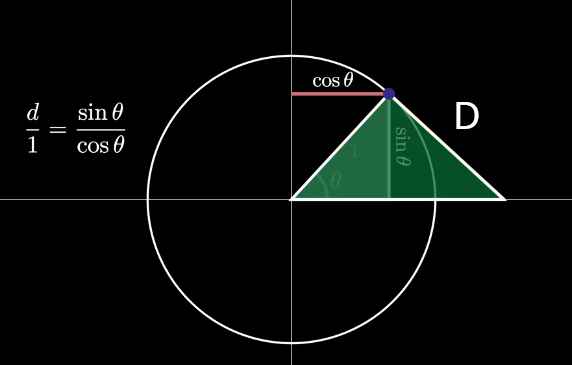
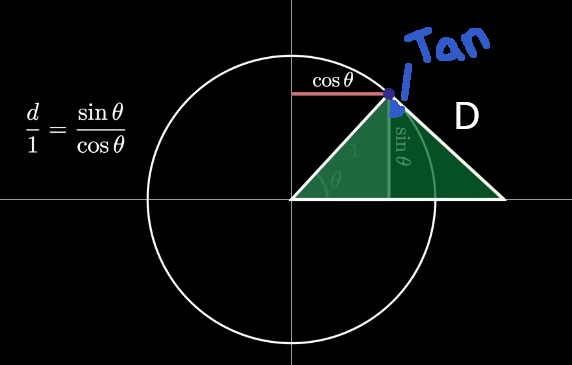
trig

Changed region(s): [[0.6836, 0.0603, 0.8619, 0.3315]]

diff --git a/Triginometry/Basics.html b/Triginometry/Basics.html
@@ -944,6 +944,10 @@ tangent also represents that slope of the radius</p>
 <img src="trig-visualized-tangent.png" alt="tangent">
 </div>
 </div>
+<div class="paragraph">
+<p>this works because we get the tangent with TOA or
+\$\frac{opposite}{adjacent}\$</p>
+</div>
 <div class="listingblock">
 <div class="content">
 <pre class="pygments highlight"><code data-lang="lua"><span></span><span class="tok-kd">local</span><span class="tok-w"> </span><span class="tok-nv">degrees</span><span class="tok-w"> </span><span class="tok-o">=</span><span class="tok-w"> </span><span class="tok-mi">45</span>
@@ -956,7 +960,7 @@ tangent also represents that slope of the radius</p>
 <span class="tok-w">         </span><span class="tok-nv">v</span><span class="tok-w"> </span><span class="tok-o">..</span>
 <span class="tok-w">         </span><span class="tok-s2">&quot;, &quot;</span><span class="tok-w"> </span><span class="tok-o">..</span>
 <span class="tok-w">        </span><span class="tok-s2">&quot;tangent: &quot;</span><span class="tok-w"> </span><span class="tok-o">..</span>
-<span class="tok-w">        </span><span class="tok-p">(</span><span class="tok-nb">math.sin</span><span class="tok-p">(</span><span class="tok-nv">radians</span><span class="tok-p">)</span><span class="tok-w"> </span><span class="tok-o">*</span><span class="tok-w"> </span><span class="tok-nv">v</span><span class="tok-p">)</span><span class="tok-o">/</span><span class="tok-p">(</span><span class="tok-nb">math.cos</span><span class="tok-p">(</span><span class="tok-nv">radians</span><span class="tok-p">)</span><span class="tok-w"> </span><span class="tok-o">*</span><span class="tok-w"> </span><span class="tok-nv">v</span><span class="tok-p">)</span>
+<span class="tok-w">        </span><span class="tok-nb">math.tan</span><span class="tok-p">(</span><span class="tok-nv">radians</span><span class="tok-p">)</span>
 <span class="tok-w">    </span><span class="tok-p">)</span>
 <span class="tok-kr">end</span></code></pre>
 </div>
@@ -973,7 +977,7 @@ radius: 5, tangent: 1</p>
 </details>
 <div class="paragraph">
 <p>notice how the tangent is always one when you&#8217;re at a 45 degree angle. No matter
-what the radius</p>
+what the radius.</p>
 </div>
 </div>
 </div>
@@ -995,7 +999,7 @@ what the radius</p>
 </div>
 <div id="footer">
 <div id="footer-text">
-Last updated 2025-12-17 14:50:27 -0500
+Last updated 2025-12-17 14:58:36 -0500
 </div>
 </div>
 <script type="text/x-mathjax-config">

diff --git a/Algrebra/index.html b/Algrebra/index.html
@@ -830,7 +830,7 @@ details[open] > summary::before {
 </div>
 <div id="footer">
 <div id="footer-text">
-Last updated 2025-12-17 14:50:29 -0500
+Last updated 2025-12-17 14:58:37 -0500
 </div>
 </div>
 <script type="text/x-mathjax-config">

diff --git a/Calculus/index.html b/Calculus/index.html
@@ -812,7 +812,7 @@ details[open] > summary::before {
 </div>
 <div id="footer">
 <div id="footer-text">
-Last updated 2025-12-17 14:50:29 -0500
+Last updated 2025-12-17 14:58:37 -0500
 </div>
 </div>
 <script type="text/x-mathjax-config">

diff --git a/Digital-Signal-Processing/index.html b/Digital-Signal-Processing/index.html
@@ -812,7 +812,7 @@ details[open] > summary::before {
 </div>
 <div id="footer">
 <div id="footer-text">
-Last updated 2025-12-17 14:50:29 -0500
+Last updated 2025-12-17 14:58:37 -0500
 </div>
 </div>
 <script type="text/x-mathjax-config">

diff --git a/Geometry/index.html b/Geometry/index.html
@@ -812,7 +812,7 @@ details[open] > summary::before {
 </div>
 <div id="footer">
 <div id="footer-text">
-Last updated 2025-12-17 14:50:29 -0500
+Last updated 2025-12-17 14:58:37 -0500
 </div>
 </div>
 <script type="text/x-mathjax-config">

diff --git a/Graphics/index.html b/Graphics/index.html
@@ -809,7 +809,7 @@ details[open] > summary::before {
 </div>
 <div id="footer">
 <div id="footer-text">
-Last updated 2025-12-17 14:50:29 -0500
+Last updated 2025-12-17 14:58:37 -0500
 </div>
 </div>
 <script type="text/x-mathjax-config">

diff --git a/Graphing/index.html b/Graphing/index.html
@@ -809,7 +809,7 @@ details[open] > summary::before {
 </div>
 <div id="footer">
 <div id="footer-text">
-Last updated 2025-12-17 14:50:29 -0500
+Last updated 2025-12-17 14:58:37 -0500
 </div>
 </div>
 <script type="text/x-mathjax-config">

diff --git a/Linear-Algrebra/index.html b/Linear-Algrebra/index.html
@@ -809,7 +809,7 @@ details[open] > summary::before {
 </div>
 <div id="footer">
 <div id="footer-text">
-Last updated 2025-12-17 14:50:29 -0500
+Last updated 2025-12-17 14:58:37 -0500
 </div>
 </div>
 <script type="text/x-mathjax-config">

diff --git a/Physics/index.html b/Physics/index.html
@@ -821,7 +821,7 @@ details[open] > summary::before {
 </div>
 <div id="footer">
 <div id="footer-text">
-Last updated 2025-12-17 14:50:29 -0500
+Last updated 2025-12-17 14:58:37 -0500
 </div>
 </div>
 <script type="text/x-mathjax-config">

diff --git a/Probability/index.html b/Probability/index.html
@@ -812,7 +812,7 @@ details[open] > summary::before {
 </div>
 <div id="footer">
 <div id="footer-text">
-Last updated 2025-12-17 14:50:29 -0500
+Last updated 2025-12-17 14:58:37 -0500
 </div>
 </div>
 <script type="text/x-mathjax-config">

diff --git a/Triginometry/index.html b/Triginometry/index.html
@@ -815,7 +815,7 @@ details[open] > summary::before {
 </div>
 <div id="footer">
 <div id="footer-text">
-Last updated 2025-12-17 14:50:29 -0500
+Last updated 2025-12-17 14:58:37 -0500
 </div>
 </div>
 <script type="text/x-mathjax-config">

diff --git a/index.html b/index.html
@@ -825,7 +825,7 @@ details[open] > summary::before {
 </div>
 <div id="footer">
 <div id="footer-text">
-Last updated 2025-12-17 14:50:29 -0500
+Last updated 2025-12-17 14:58:37 -0500
 </div>
 </div>
 </body>
